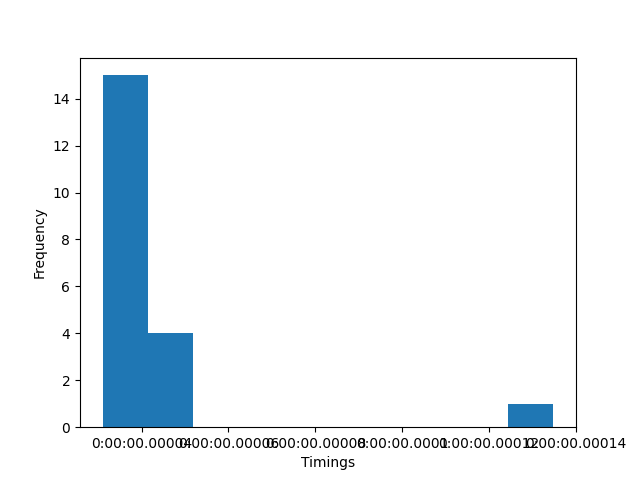
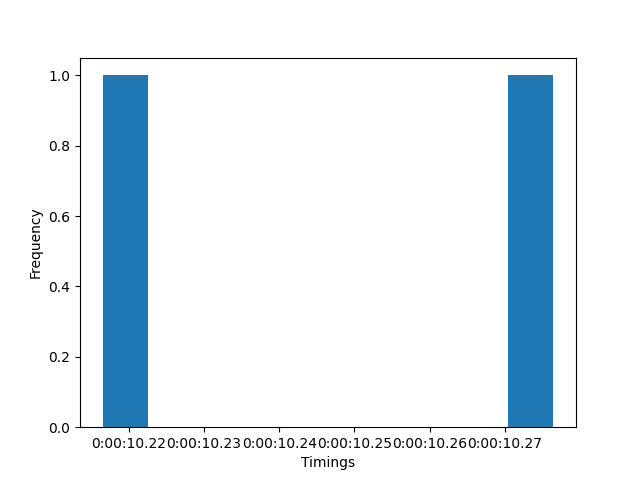
Updated implementation of benchmark tests

diff --git a/timeseries/nextgeoss/benchmark.py b/timeseries/nextgeoss/benchmark.py
@@ -1,7 +1,7 @@
-import base64
 import configparser
 import json
-import urllib.parse
+import logging
+import xml.etree.ElementTree as ET
 from datetime import timedelta
 from os.path import abspath, dirname, join
 from time import sleep
@@ -10,16 +10,23 @@ from typing import List
 import geojson
 import requests
 from fire import Fire
-from owslib.wps import WebProcessingService
 from shapely.geometry import shape
 
 from timeseries.histogram import create_histogram
 from timeseries.timer import Timer
 
-import xml.etree.ElementTree as ET
-
 config = configparser.ConfigParser()
 config.read('./config/dev.conf')
+
+result_path = './results/nextgeoss'
+
+logging.basicConfig(level=logging.DEBUG,
+                    format='%(asctime)s [%(levelname)s] %(message)s',
+                    handlers=[
+                        logging.FileHandler(f'{result_path}.txt',  mode='w'),
+                        logging.StreamHandler()
+                    ]
+                    )
 
 
 class BenchMark:
@@ -61,58 +68,78 @@ class BenchMark:
         url = doc.attrib['statusLocation']
         status_txt = requests.get(url).text
         resp = self.get_xml(status_txt)
-        print(resp[1][0])
         if 'ProcessFailed' in resp[1][0].tag:
             return 'FAILED'
-        elif 'ProcessStarted' not in resp[1][0].tag:
+        elif 'ProcessSucceeded' in resp[1][0].tag:
             return 'DONE'
         return 'RUNNING'
 
+    def download_results(self, doc):
+        # Get status XML
+        url = doc.attrib['statusLocation']
+        status_txt = requests.get(url).text
+        resp = self.get_xml(status_txt)
+
+        # Download metalink
+        metalink_url = resp[2][0][2][0][0].get('href')
+        metalink_txt = requests.get(metalink_url).text
+        metalink_resp = self.get_xml(metalink_txt)
+
+        # Download results
+        result = list()
+        for file in metalink_resp[0]:
+            result.append(requests.get(file[0][0].text).json())
+        return result
+
     def time_series(self):
+        logging.info(f'Running benchmark on nextgeoss:')
+        with open(join(abspath(dirname(dirname(__file__))), 'nextgeoss', 'workflow', 'samples', 'sample.json')) as f:
+            input_geojson = geojson.load(f)
 
-        result_path = f"./results/nextgeoss"
+        t = Timer()
+        t.start()
 
-        with open(f"{result_path}.txt", "w+") as file:
-            file.write(f"Running benchmark on nextgeoss:\n\n")
+        for i, f in enumerate(input_geojson.features):
+            logging.info(f'Feature {i + 1}:')
+            temporal_extents = [['2018-01-01', '2018-02-01']]
+            for temporal_extent in temporal_extents:
 
-            with open(
-                    join(abspath(dirname(dirname(__file__))), 'nextgeoss', 'workflow', 'samples', 'sample.json')) as f:
-                input_geojson = geojson.load(f)
+                # Execute workflow
+                logging.info(f'{temporal_extent[0]} - {temporal_extent[1]}:')
+                try:
+                    result = self.execute_workflow(start=temporal_extent[0], end=temporal_extent[1], feature=f)
+                    done = False
+                    while not done:
+                        sleep(5)
+                        status = self.get_status(result)
+                        logging.debug(f'Checking status for feature {i + 1} - {status}')
+                        done = status in ['DONE', 'FAILED']
+                except Exception as e:
+                    logging.error(f"Failed to execute request: {e}")
+                logging.info(f'Elapsed time for period: {timedelta(seconds=t.split_period())}')
 
-            t = Timer()
-            t.start()
-
-            for i, f in enumerate(input_geojson.features):
-                file.write(f"Feature {i + 1}:\n\n")
-                temporal_extents = [["2018-03-20", "2018-03-23"]]
-                for temporal_extent in temporal_extents:
-                    file.write(f"{temporal_extent[0]} - {temporal_extent[1]}:\n\n")
+                # Dowload the results
+                if status == 'DONE':
                     try:
-                        result = self.execute_workflow(start=temporal_extent[0], end=temporal_extent[1], feature=f)
-                        done = False
-                        while not done:
-                            status = self.get_status(result)
-                            file.write(f"Checking status for feature {i + 1} - {status}\n")
-                            done = status in ['DONE', 'FAILED']
-                            sleep(10)
+                        logging.info(f'Downloading the results')
+                        logging.info(f'{self.download_results(result)}')
                     except Exception as e:
-                        file.write(f"Failed to execute request: {e}\n\n")
-                    file.write(f"Elapsed time for period: {timedelta(seconds=t.split_period())}\n\n")
+                        logging.error(f'Failed to download results: {e}')
 
-                file.write(f"Elapsed time for feature: {timedelta(seconds=t.split_feature())}\n\n")
+            logging.info(f'Elapsed time for feature: {timedelta(seconds=t.split_feature())}')
 
-            timings = t.stop()
+        timings = t.stop()
 
-            file.write(f"Total elapsed time: {timedelta(seconds=timings['elapsed_time'])}\n\n")
+        logging.info(f'Total elapsed time: {timedelta(seconds=timings["elapsed_time"])}')
 
-            file.write("Statistics:\n\n")
-            file.write(f"Min: {timedelta(seconds=timings['stats']['min'])}\n")
-            file.write(f"Max: {timedelta(seconds=timings['stats']['max'])}\n")
-            file.write(f"Mean: {timedelta(seconds=timings['stats']['mean'])}\n")
-            file.write(f"StDev: {timedelta(seconds=timings['stats']['stdev'])}\n")
+        logging.info('Statistics:')
+        logging.info(f'Min: {timedelta(seconds=timings["stats"]["min"])}')
+        logging.info(f'Max: {timedelta(seconds=timings["stats"]["max"])}')
+        logging.info(f'Mean: {timedelta(seconds=timings["stats"]["mean"])}')
+        logging.info(f'StDev: {timedelta(seconds=timings["stats"]["stdev"])}')
 
-            create_histogram(result_path, timings['feature_timings'])
+        create_histogram(result_path, timings['feature_timings'])
 
 
-if __name__ == "__main__":
+if __name__ == '__main__':
     Fire(BenchMark(config).time_series)

diff --git a/timeseries/nextgeoss/workflow/eshape-benchmarks/src/main/app-resources/process/download.py b/timeseries/nextgeoss/workflow/eshape-benchmarks/src/main/app-resources/process/download.py
@@ -26,4 +26,3 @@ if __name__ == '__main__':
     basename = args.products[0].split('/')[9]
     for product in args.products:
         catalogue.download_file(ProductFile(href=product, length=None), args.output)
-    print(basename)
